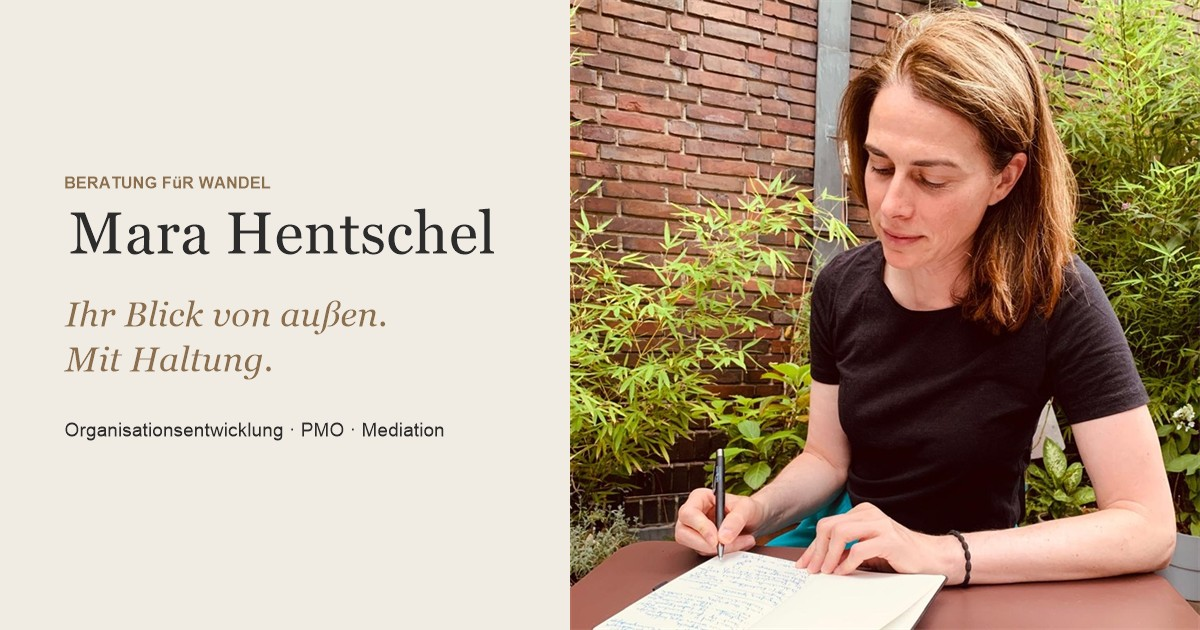
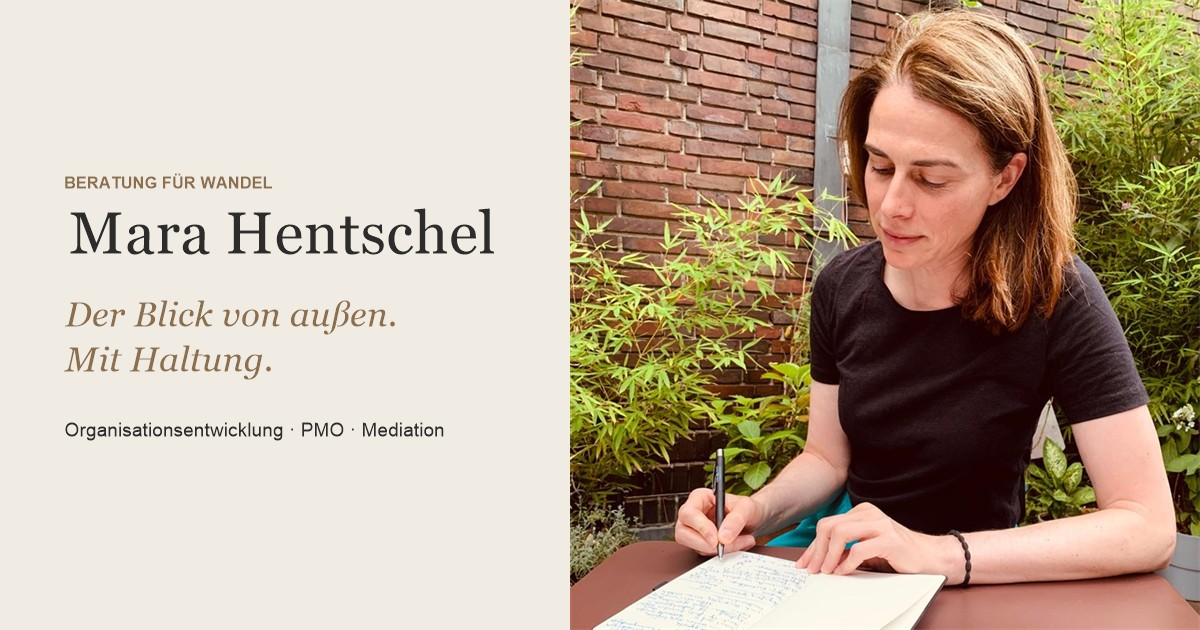
About: coach-voice rewrite of biographical paragraph, tagline clarification
- Rewrite About P4 from CV-style biographical listing to insight-driven coach voice.
  Names three sectors without dropping specific stations (Trust Strip carries names).
  New verb pair "Prozess gestalten und tragen" captures both structural and
  facilitative work; ends on outcome-language "aus Vorhaben Wirkung wird".
- Change footer tagline from "Ihr Blick von außen" to "Der Blick von außen"
  across all pages (index, impressum, datenschutz). "Ihr" was ambiguous —
  reader unclear whose view was meant. "Der" resolves the ambiguity.
- Regenerate og-image with new tagline.

Changed region(s): [[0.0617, 0.4825, 0.3392, 0.5429], [0.1233, 0.2714, 0.2467, 0.3016]]

diff --git a/src/index.html b/src/index.html
@@ -201,7 +201,7 @@
       <div class="about-text fade-in">
         <p>Strategisches Projektmanagement, Organisationsentwicklung und Mediation: Diese drei Perspektiven prägen meine Arbeit. Ich arbeite an der Schnittstelle von Strukturen und Menschen.</p>
         <p>Meine Arbeit beginnt dort, wo Konzepte auf Realität stoßen: bei Teams, Führungskräften und gewachsenen Strukturen, die sich nicht per Beschluss von oben ändern lassen.</p>
-        <p>Neun Jahre bei Zalando habe ich den Weg vom Start-up zum Konzern mitgestaltet und PMO-Strukturen aufgebaut, zuletzt als Lead PMO für eine komplette Business Unit. Im Bundesministerium für Verkehr habe ich als Work4Germany Fellow ein Referat in Entwicklung und Zusammenarbeit gestärkt, durch Workshop-Moderation, Coaching der Referatsleitung und Reflexionsformate für das Team.</p>
+        <p>Was ich in Konzern, Start-up und öffentlicher Verwaltung gelernt habe: Wandel scheitert selten an neuen Konzepten. Er scheitert an der Zusammenarbeit, an fehlender Verankerung, an der Übersetzung von Vorhaben in gelebte Praxis. Meine Rolle: den Prozess gestalten und tragen, damit die entscheidenden Fragen gestellt werden und aus Vorhaben Wirkung wird.</p>
         <p>Bei größeren Vorhaben arbeite ich kollaborativ in einem Netzwerk erfahrener Kolleg:innen. Für einzelne Führungskräfte, die einen Außenblick suchen, stehe ich auch als Sparringspartnerin zur Verfügung.</p>
       </div>
     </div>
@@ -279,7 +279,7 @@
 <!-- FOOTER -->
 <footer>
   <div class="footer-inner">
-    <p class="footer-tagline">Ihr Blick von außen. Mit Haltung.</p>
+    <p class="footer-tagline">Der Blick von außen. Mit Haltung.</p>
     <div class="footer-bottom">
       <span>© 2026 Mara Hentschel. Alle Rechte vorbehalten.</span>
       <div class="footer-links">

diff --git a/src/datenschutz.html b/src/datenschutz.html
@@ -154,7 +154,7 @@
 <!-- FOOTER -->
 <footer>
   <div class="footer-inner">
-    <p class="footer-tagline">Ihr Blick von außen. Mit Haltung.</p>
+    <p class="footer-tagline">Der Blick von außen. Mit Haltung.</p>
     <div class="footer-bottom">
       <span>© 2026 Mara Hentschel. Alle Rechte vorbehalten.</span>
       <div class="footer-links">

diff --git a/src/impressum.html b/src/impressum.html
@@ -77,7 +77,7 @@
 <!-- FOOTER -->
 <footer>
   <div class="footer-inner">
-    <p class="footer-tagline">Ihr Blick von außen. Mit Haltung.</p>
+    <p class="footer-tagline">Der Blick von außen. Mit Haltung.</p>
     <div class="footer-bottom">
       <span>© 2026 Mara Hentschel. Alle Rechte vorbehalten.</span>
       <div class="footer-links">
